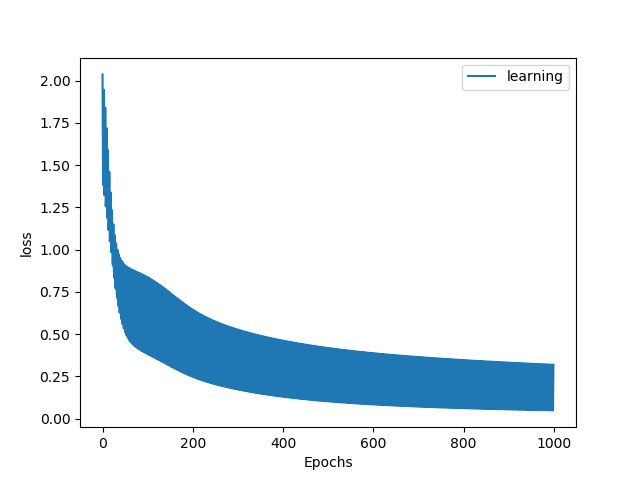
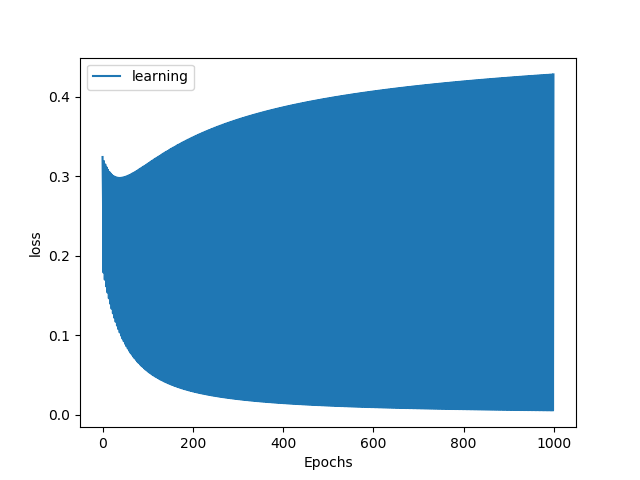
ad_d_net_factory

diff --git a/num_fcn/_two_lay_fcn.py b/num_fcn/_two_lay_fcn.py
@@ -16,7 +16,7 @@ import pickle
 
 class TwoLayFcn:
 
-    def __init__(self, ops=Ops(), idxs=IndexesToSer(), util=Util(), in_1=0, out_1=0, out_2=0, with_biasses=True, load_f_name=''):
+    def __init__(self, ops=Ops(), idxs=IndexesToSer(), util=Util(), with_biasses=True, load_f_name=''):
 
         self._ops = ops  # также установим функции активации и их производные
         self._idxs = idxs  # индексы для сериализации
@@ -25,10 +25,10 @@ class TwoLayFcn:
         if load_f_name != '':  # файл сериализации нам  задан, загружаем
             self.load_ser_d_file(load_f_name)
 
-        else:  # файл сериализации нам не задан, строим сеть, после этого блока будет работать с to_file()
+        # else:  # файл сериализации нам не задан, строим сеть, после этого блока будет работать с to_file()
 
-            self.build_fcn_pars(in_1, out_1, out_2,
-                                with_biasses)
+        #     self.build_fcn_pars(in_1, out_1, out_2,
+        #                         with_biasses)
 
     def load_ser_d_file(self, load_f_name):
         net = None
@@ -130,7 +130,7 @@ class TwoLayFcn:
         if predict:
             return out_cn
         return (hid, out_cn)
-    def evaluate(self, inputs):
+    def evaluate(self):
         m = self.X.shape[0]
         for single_array_ind in range(m):
             inputs = self.X[single_array_ind]
@@ -141,7 +141,7 @@ class TwoLayFcn:
 
             for row in range(self.out_2):
                 elem_net = output_2_layer[row]
-                elem_train_out = self.Y[single_array_ind][row]
+                elem_train_out = self.Y[single_array_ind]
                 if elem_net > 0.5:
                     elem_net = 1
                 else:

diff --git a/num_fcn/_configure_cmd_ap.py b/num_fcn/_configure_cmd_ap.py
@@ -19,7 +19,7 @@ class ConfigureCmdApp:
         self._learn = learn
         self.__max_iter = 1000
         self.__learning_rate=0.1
-        self.__alpha_sigmoid = 1
+        self.__alpha_sigmoid = 2
         self.__batch_size = 2
         self.__reg_param = 0
         self.__act_func1 = SIGMOID
@@ -28,7 +28,7 @@ class ConfigureCmdApp:
 
     def loop(self):
         print('set-max-iter <Val> | set-act-func-1 <Str> | set-act-func-2 <Str> | set-alpha-sigmoid <Val> | r - сразу дефаултные:\
-max-iter=1000 alpha-sigmoid=1 batch-size=2 reg-param=0 обе активационные функции SIGMOID | stop')
+max-iter=1000 alpha-sigmoid=2 batch-size=2 reg-param=0 обе активационные функции SIGMOID | stop')
         shell_is_running = True
         while shell_is_running:
             s = input('->')
@@ -39,7 +39,7 @@ max-iter=1000 alpha-sigmoid=1 batch-size=2 reg-param=0 обе активацио
                 self._learn._fcn.set_act_funcs(act_func1=self.__act_func1, act_func2=self.__act_func2)
                 self._learn.fit(learning_rate=self.__learning_rate, reg_param=self.__reg_param, max_iter=self.__max_iter,
                 batch_size=self.__batch_size)
-                self._learn._fcn.evaluate('logic', self.sx )
+                self._learn._fcn.evaluate()
                 s=input('?->Продолжать заново обучение с другими параметрами? y/n :')
                 if s=='y':
                     continue

diff --git a/num_fcn/_backprop.py b/num_fcn/_backprop.py
@@ -45,8 +45,10 @@ class Backprop:
             gl_err = 0
 
             m = self._fcn.X.shape[0]
-            self.samp_p = 0
-            for _ in range(m):
+            # is_samples = True
+            self.samp_p=0
+            for _ in range(m) :
+                # self.samp_p=0
                 _sys.stdout.write(
                     "\rIteration: {} and {} ".format(i + 1, self.samp_p + 1))
 
@@ -68,6 +70,7 @@ class Backprop:
 
                     hid_bias_err += hid_half_err * 1
                     out_bias_err += out_cn_half_err * 1
+                   
                     gl_err += self._fcn._util.mse(error_metric)
                 else:  # Применяем его
                     self._fcn.W1 = self.update_matrix(
@@ -80,6 +83,7 @@ class Backprop:
                         learning_rate * (hid_bias_err / m)
                     self._fcn.B2 = self._fcn.B2 - \
                         learning_rate * (out_bias_err / m)
+                   
                 self.samp_p += 1
                 self.samp_count += 1
 

diff --git a/apps/vm_learn.py b/apps/vm_learn.py
@@ -1,18 +1,18 @@
 from num_fcn._backprop import Backprop
-from num_fcn._learn_logic_as_symbs import LearnLogicAsSymbs
+# from num_fcn._learn_logic_as_symbs import LearnLogicAsSymbs
+from num_fcn._net_factory import NetFactory
 from num_fcn._ops_constants  import SIGMOID, LEAKY_RELU, TAN, RELU
 from num_fcn._configure_cmd_ap import ConfigureCmdApp
 
 
-s1 = """
-     1|1=1;
-     1|0=1;
-     0|1=1;
-     0|0=0;"""
+x=[[1, 0], [0, 1], [1, 1], [0, 0]]
+y=[[1],[1],[1],[0]]
     
-net_1 = LearnLogicAsSymbs(in_1=5, out_1=7, out_2=2)  # обучаем ее на s1
+net_1 = NetFactory.get_net("net")  # обучаем ее на s1
 net_1.set_act_funcs()
-net_1.set_X_Y(s1)
+net_1.build_fcn_pars(2, 7, 1, True)
+net_1.set_act_funcs_pars(alpha_tan=1.73, beta_tan=2/3)
+net_1.set_X_Y(x, y)
 back_o=Backprop(fcn=net_1)
-conf=ConfigureCmdApp(learn=back_o, sx=s1)
+conf=ConfigureCmdApp(learn=back_o)
 conf.loop()              

diff --git a/num_fcn/_net_factory.py b/num_fcn/_net_factory.py
@@ -1,0 +1,14 @@
+from ._two_lay_fcn import TwoLayFcn
+class NetFactory:
+ o=None
+ @classmethod
+ def get_net(self, key):
+    """
+    Возвращает сеть нацеленную на обработку определеной информации
+    arg: key сторока - просто числовая сеть "net", символьная математика "sym_math", символьная логика "sym_log"
+    return обьект
+    """ 
+    if key=='net':
+      o=TwoLayFcn()
+
+    return o      

diff --git a/num_fcn/_operations.py b/num_fcn/_operations.py
@@ -71,6 +71,7 @@ class Ops:
             y = self.alpha_tan * np.tanh(self.beta_tan * x)
             return y
         elif op == TAN_DERIV:
-            return self.beta_tan * self.alpha_tan * 4 / ((np.exp(self.beta_tan * x) + np.exp(-self.beta_tan * x))**2)
+            c=self.beta_tan/self.alpha_tan
+            return c * (self.alpha_tan ** 2 - x ** 2) 
         else:
             print("Op or function does not support ", op)

diff --git a/num_fcn/_learn_logic_as_symbs.py b/num_fcn/_learn_logic_as_symbs.py
@@ -7,7 +7,6 @@ import math
 
 class LearnLogicAsSymbs(TwoLayFcn):
     def set_X_Y(self, s):
-       self.__s=s 
        self.X, self.Y, _= create_matrices_x_y_from_symb_code(s, self.in_1, self.out_2, devider=1)  
 
     def evaluate(self, contr_co_s, s, devider=1):
